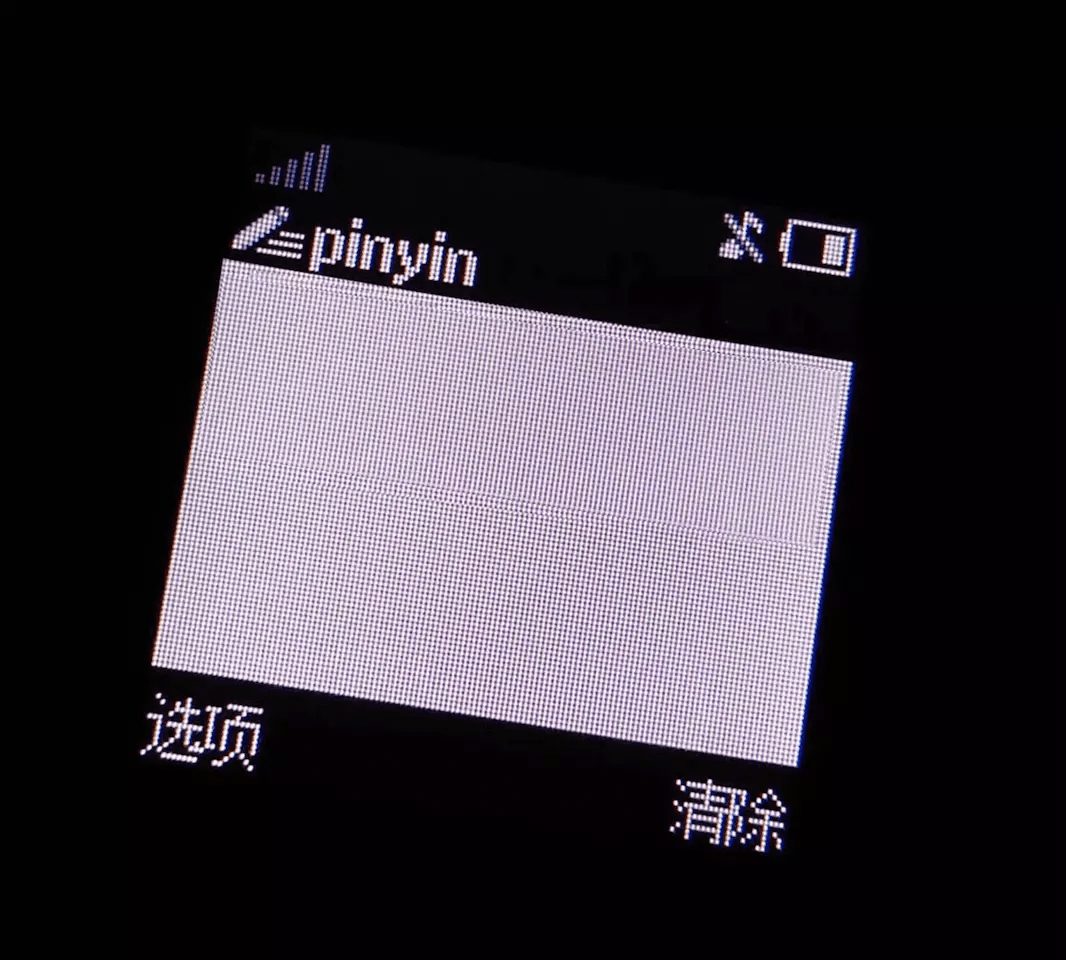
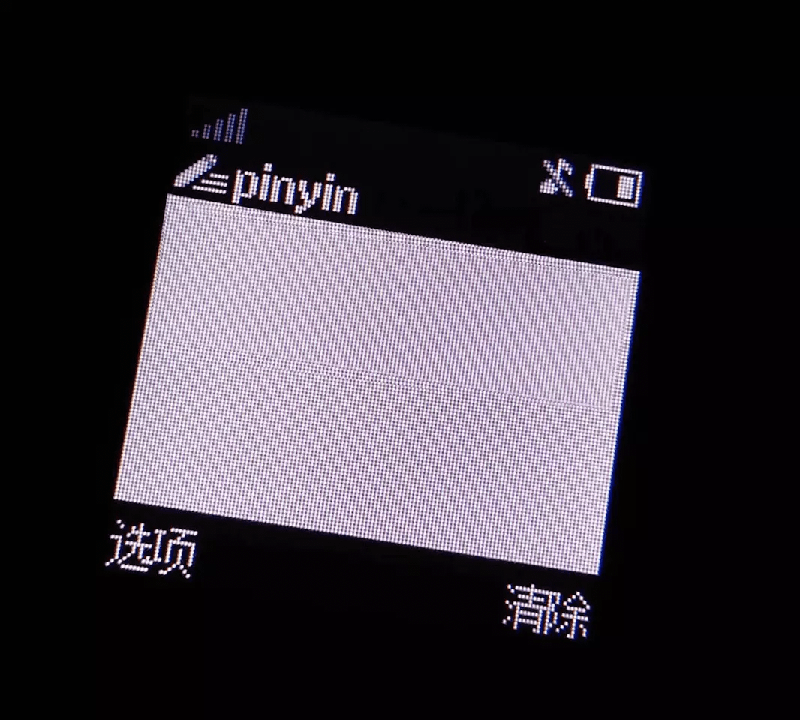
优化图片尺寸

diff --git a/js/index.js b/js/index.js
@@ -3,15 +3,16 @@ var $btn = document.querySelector(".btn");
 var $img = document.querySelector(".img");
 
 var $canvas = document.createElement("canvas");
-$canvas.width = 1066;
-$canvas.height = 960;
+$canvas.width = 800;
+$canvas.height = 720;
+$canvas.style.display = 'none';
+document.body.appendChild($canvas);
 var ctx = $canvas.getContext("2d");
 
 function loadImg(url) {
   return new Promise(function(resolve) {
     var img = new Image();
     img.onload = function() {
-      console.log(url);
       resolve(img);
     };
     img.src = url;
@@ -98,15 +99,15 @@ function darw($bg, $cover, text) {
   ctx.clearRect(0, 0, $canvas.width, $canvas.height);
   $canvas.style.letterSpacing = "5px";
   ctx.drawImage($bg, 0, 0);
-  ctx.font = "60px pixel";
+  ctx.font = "46px pixel";
   ctx.fillStyle = "#333";
   ctx.save();
   ctx.translate($canvas.width / 2, $canvas.height / 2);
   ctx.rotate((Math.PI / 180) * 9.5);
-  drawText(text, -320, -80, 630, 90);
-  ctx.font = "60px pixel";
+  drawText(text, -240, -60, 460, 60);
+  ctx.font = "42px pixel";
   ctx.fillStyle = "#76b8d5";
-  ctx.fillText(text.length + "/100", text.length >= 10 ? 100 : 130, -180);
+  ctx.fillText(text.length + "/100", text.length >= 10 ? 70 : 100, -135);
   ctx.restore();
   ctx.save();
   ctx.globalCompositeOperation = "darken";
